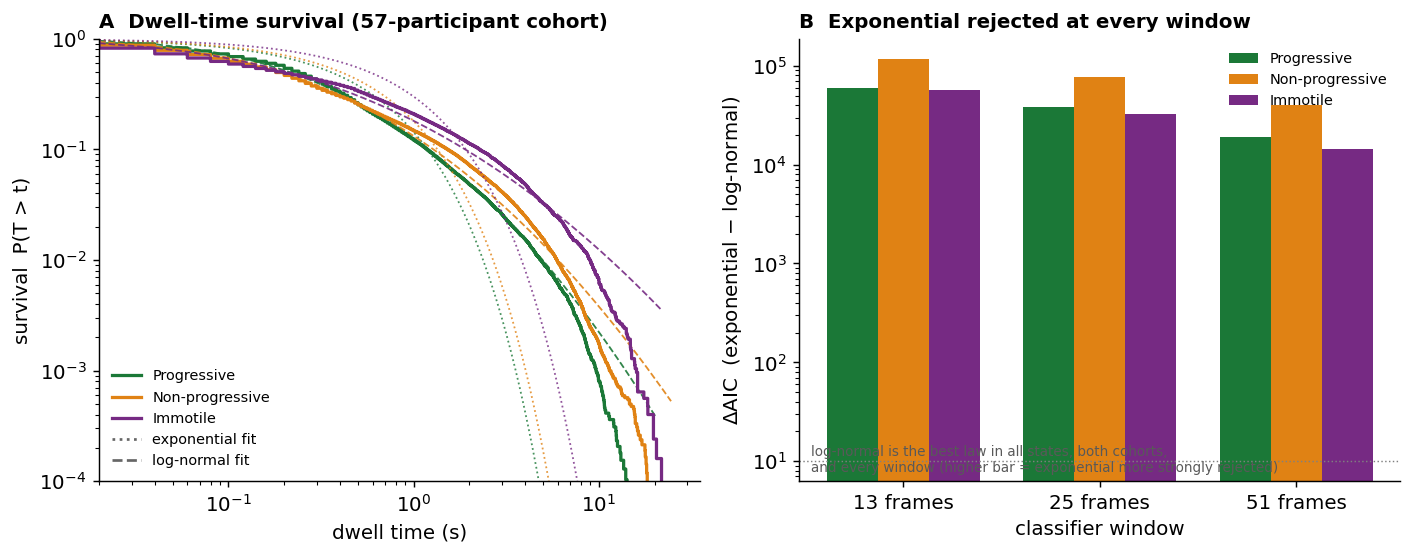
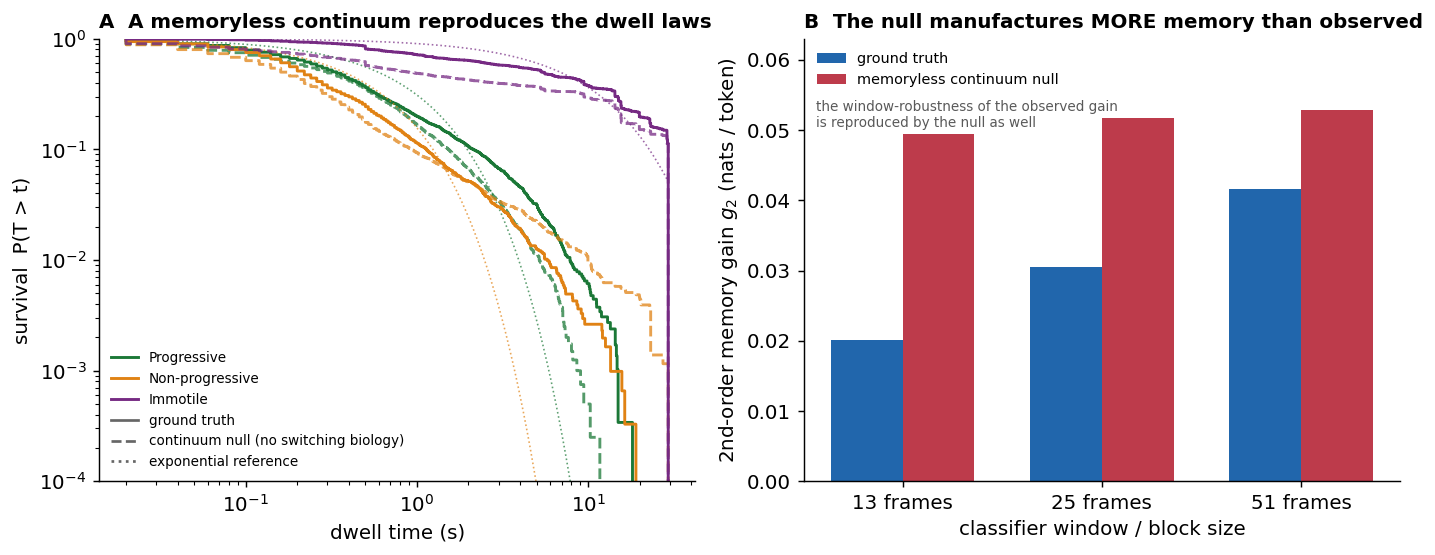
T1.6 figures regenerated for the pivoted paper
- Fig 1: GT dwell survival with continuum-null overlay (null reproduces the
  heavy tails); g2 bar chart with null > GT at every window.
- Fig 2: survivor forest plot (GT, flicker-merged 34/38%, continuum null,
  GT-minus-null) + 16-config classifier sweep showing GT invariance vs
  design-dependent null artefact (hysteresis latch effect annotated).
- Captions updated; placeholder flags removed.

diff --git a/experiments/make_paper_figures.py b/experiments/make_paper_figures.py
@@ -1,13 +1,13 @@
-"""Assemble the paper figures for the non-Markovian sperm-motility study.
+"""Assemble the paper figures for the pipeline-artefact / refractory-survivor study.
 
-Figure 1  dwell-time law is log-normal (not exponential)      -> fig1_dwell_law.png
-Figure 2  decomposing the memory: single-cell vs mover-stayer -> fig2_decomposition.png
-Figure 3  heterogeneity is a reliable trait but not clinically -> fig3_heterogeneity.png
+Figure 1  a memoryless continuum manufactures the phenomenology -> fig1_dwell_law.png
+Figure 2  the survivor: refractory switching vs every control   -> fig2_decomposition.png
+Figure 3  heterogeneity is a reliable trait but not clinically  -> fig3_heterogeneity.png
           incremental over CASA composition
 
-Figure 1 recomputes a modest dwell-time sample; Figures 2-3 are built from the
-summary JSONs already on disk (mover_stayer_eb/null, memory_decomposition,
-per_cell_kinetics, stayer_dfi).
+Figure 1 recomputes dwell samples from outputs/tracks_gt and
+outputs/tracks_continuum_null; Figures 2-3 are built from the summary JSONs
+(refractory_survivor, threshold_hysteresis, per_cell_kinetics, stayer_dfi).
 
 Usage: python -m experiments.make_paper_figures
 """
@@ -27,7 +27,9 @@ ROOT = Path(__file__).resolve().parent.parent
 sys.path.insert(0, str(ROOT))
 from markov_analysis import STATES  # noqa: E402
 from experiments.dwell_physics import dwell_episodes, EXTRA  # noqa: E402
+from experiments.gt_reanchor import GT_DIR  # noqa: E402
 
+NULL_DIR = ROOT / "outputs" / "tracks_continuum_null"
 MK = ROOT / "outputs" / "markov"
 FIG = ROOT / "paper" / "figures"
 FIG.mkdir(parents=True, exist_ok=True)
@@ -42,51 +44,50 @@ def load(name):
 
 # ---------------------------------------------------------------- Figure 1
 def figure1():
-    dwell = dwell_episodes(EXTRA, max_tracks=500, seed=0)
-    rob = load("dwell_physics_robust")["window_invariance"]
+    dwell_gt = dwell_episodes(GT_DIR, max_tracks=0, seed=0)
+    dwell_nl = dwell_episodes(NULL_DIR, max_tracks=0, seed=0)
+    g2_gt = load("gt_reanchor")["gt"]["block_g2"]
+    g2_nl = load("continuum_null")["null"]["block_g2"]
 
     fig, ax = plt.subplots(1, 2, figsize=(11, 4.4))
 
-    # (A) empirical survival on log-log + fitted exponential vs log-normal
+    # (A) dwell survival: GT (solid) vs memoryless continuum null (dashed)
     for i, s in enumerate(STATES):
-        d = np.sort(dwell[i])
-        d = d[d > 0]
-        surv = 1.0 - np.arange(1, len(d) + 1) / len(d)
-        ax[0].step(d, surv, where="post", color=COL[s], lw=1.8, label=s)
-        # fitted exponential (Markov/memoryless) -- dashed
-        mu = d.mean()
-        ax[0].plot(d, np.exp(-d / mu), color=COL[s], ls=":", lw=1.0, alpha=0.8)
-        # fitted log-normal -- thin solid
-        sh, loc, sc = stats.lognorm.fit(d, floc=0)
-        ax[0].plot(d, 1 - stats.lognorm.cdf(d, sh, loc, sc),
-                   color=COL[s], ls="--", lw=1.0, alpha=0.9)
+        for dwell, ls, alpha in ((dwell_gt, "-", 1.0), (dwell_nl, "--", 0.75)):
+            d = np.sort(dwell[i]); d = d[d > 0]
+            surv = 1.0 - np.arange(1, len(d) + 1) / len(d)
+            ax[0].step(d, surv, where="post", color=COL[s], lw=1.6,
+                       ls=ls, alpha=alpha, label=s if ls == "-" else None)
+        # exponential (memoryless-switching) reference on GT
+        d = np.sort(dwell_gt[i]); d = d[d > 0]
+        ax[0].plot(d, np.exp(-d / d.mean()), color=COL[s], ls=":", lw=0.9, alpha=0.7)
     ax[0].set_xscale("log"); ax[0].set_yscale("log")
-    ax[0].set_xlim(d.min(), None); ax[0].set_ylim(1e-4, 1)
+    ax[0].set_ylim(1e-4, 1)
     ax[0].set_xlabel("dwell time (s)"); ax[0].set_ylabel("survival  P(T > t)")
-    ax[0].set_title("A  Dwell-time survival (57-participant cohort)", loc="left",
-                    fontsize=11, weight="bold")
-    ax[0].plot([], [], color="0.4", ls=":", label="exponential fit")
-    ax[0].plot([], [], color="0.4", ls="--", label="log-normal fit")
-    ax[0].legend(fontsize=8, frameon=False, loc="lower left")
+    ax[0].set_title("A  A memoryless continuum reproduces the dwell laws",
+                    loc="left", fontsize=11, weight="bold")
+    ax[0].plot([], [], color="0.4", ls="-", label="ground truth")
+    ax[0].plot([], [], color="0.4", ls="--", label="continuum null (no switching biology)")
+    ax[0].plot([], [], color="0.4", ls=":", label="exponential reference")
+    ax[0].legend(fontsize=7.5, frameon=False, loc="lower left")
 
-    # (B) exponential is rejected by a huge margin at every window size
+    # (B) second-order memory gain: null >= observed at every window
     windows = ["13", "25", "51"]
-    x = np.arange(len(windows))
-    w = 0.26
-    for j, s in enumerate(STATES):
-        vals = [rob[wd][s]["exp_dAIC"] for wd in windows]
-        ax[1].bar(x + (j - 1) * w, vals, w, color=COL[s], label=s)
-    ax[1].set_yscale("log")
+    x = np.arange(len(windows)); w = 0.36
+    ax[1].bar(x - w / 2, [g2_gt[wd]["g2"] for wd in windows], w,
+              color="#2166ac", label="ground truth")
+    ax[1].bar(x + w / 2, [g2_nl[wd]["g2"] for wd in windows], w,
+              color="#b2182b", alpha=0.85, label="memoryless continuum null")
     ax[1].set_xticks(x); ax[1].set_xticklabels([f"{wd} frames" for wd in windows])
-    ax[1].set_xlabel("classifier window")
-    ax[1].set_ylabel(r"$\Delta$AIC  (exponential $-$ log-normal)")
-    ax[1].set_title("B  Exponential rejected at every window", loc="left",
-                    fontsize=11, weight="bold")
-    ax[1].axhline(10, color="0.5", ls=":", lw=0.8)
-    ax[1].legend(fontsize=8, frameon=False)
-    ax[1].text(0.02, 0.02, "log-normal is the best law in all states, both cohorts,\n"
-               "and every window (higher bar = exponential more strongly rejected)",
-               transform=ax[1].transAxes, fontsize=7.5, color="0.35")
+    ax[1].set_xlabel("classifier window / block size")
+    ax[1].set_ylabel(r"2nd-order memory gain $g_2$ (nats / token)")
+    ax[1].set_title("B  The null manufactures MORE memory than observed",
+                    loc="left", fontsize=11, weight="bold")
+    ax[1].set_ylim(0, 0.063)
+    ax[1].legend(fontsize=8, frameon=False, loc="upper left")
+    ax[1].text(0.02, 0.80, "the window-robustness of the observed gain\n"
+               "is reproduced by the null as well", transform=ax[1].transAxes,
+               fontsize=7.5, color="0.35")
 
     fig.tight_layout()
     fig.savefig(FIG / "fig1_dwell_law.png", bbox_inches="tight")
@@ -96,63 +97,75 @@ def figure1():
 
 # ---------------------------------------------------------------- Figure 2
 def figure2():
-    eb = load("mover_stayer_eb")
-    dec = load("memory_decomposition")
-    cohorts = ["orig20", "extra57"]
-    labels = {"orig20": "VISEM-Tracking (20)", "extra57": "independent (57)"}
+    rs = load("refractory_survivor")
+    th = load("threshold_hysteresis")
 
-    fig, ax = plt.subplots(1, 3, figsize=(14, 4.4))
+    fig, ax = plt.subplots(1, 2, figsize=(12.5, 4.6),
+                           gridspec_kw={"width_ratios": [1, 1.6]})
 
-    # (A) held-out 2nd-over-1st gain: real vs the three nulls
-    keys = ["real", "eb_fair", "het_overfit", "hom"]
-    names = ["observed", "EB-fair\nheterogeneity", "over-fit\nheterogeneity",
-             "homogeneous\nmemoryless"]
-    cols = ["#2166ac", "#67a9cf", "#b2abd2", "#bbbbbb"]
-    x = np.arange(len(keys)); w = 0.38
-    for c, off in zip(cohorts, (-w / 2, w / 2)):
-        g = eb[c]["g2"]
-        ax[0].bar(x + off, [g[k] for k in keys], w, label=labels[c],
-                  color=[cols[i] for i in range(len(keys))],
-                  edgecolor="k" if c == "extra57" else "none", linewidth=0.6)
-    ax[0].axhline(0, color="k", lw=0.6)
-    ax[0].set_xticks(x); ax[0].set_xticklabels(names, fontsize=8.5)
-    ax[0].set_ylabel("2nd-order gain (log-lik / token)")
-    ax[0].set_title("A  Only real data shows full memory", loc="left",
+    # (A) forest plot: the survivor vs its controls
+    rows = [
+        ("ground truth", rs["gt"]["delta_rho"], rs["gt"]["ci95"], "#2166ac"),
+        ("flicker-merged (34 % of episodes)", rs["gt_flicker_merged_25f"]["delta_rho"],
+         rs["gt_flicker_merged_25f"]["ci95"], "#2166ac"),
+        ("flicker-merged (38 % of episodes)", rs["gt_flicker_merged_50f"]["delta_rho"],
+         rs["gt_flicker_merged_50f"]["ci95"], "#2166ac"),
+        ("memoryless continuum null", rs["continuum_null"]["delta_rho"],
+         rs["continuum_null"]["ci95"], "#b2182b"),
+    ]
+    ys = np.arange(len(rows))[::-1]
+    for y, (name, pt, ci, col) in zip(ys, rows):
+        ax[0].plot(ci, [y, y], color=col, lw=2.2, solid_capstyle="butt")
+        ax[0].plot(pt, y, "o", color=col, ms=7)
+        ax[0].text(-0.005, y + 0.22, name, ha="right", fontsize=8.5, color="0.2")
+    ax[0].axvline(0, color="k", lw=0.7, ls=":")
+    ax[0].set_yticks([])
+    ax[0].set_xlim(-0.38, 0.06)
+    ax[0].set_xlabel(r"refractoriness  $\Delta\rho$  (video-cluster 95 % CI)")
+    ax[0].set_title("A  The survivor and its controls", loc="left",
                     fontsize=11, weight="bold")
-    ax[0].text(0.02, 0.95, "solid edge = 57-cohort", transform=ax[0].transAxes,
-               fontsize=7.5, color="0.35", va="top")
+    d = rs["gt_minus_null"]
+    ax[0].text(0.02, 0.03, f"GT − null = {d['point']:+.2f} "
+               f"[{d['ci95'][0]:+.2f}, {d['ci95'][1]:+.2f}]",
+               transform=ax[0].transAxes, fontsize=8, color="0.35")
 
-    # (B) fair split of the memory into two sources
-    for k, c in enumerate(cohorts):
-        agg = eb[c]["aggregation_share_eb"]
-        gen = eb[c]["genuine_memory_share_eb"]
-        ax[1].bar(k, gen * 100, color="#2166ac", label="single-cell memory" if k == 0 else None)
-        ax[1].bar(k, agg * 100, bottom=gen * 100, color="#67a9cf",
-                  label="mover-stayer heterogeneity" if k == 0 else None)
-        ax[1].text(k, gen * 50, f"{gen:.0%}", ha="center", color="w", fontsize=10, weight="bold")
-        ax[1].text(k, gen * 100 + agg * 50, f"{agg:.0%}", ha="center", color="w",
-                   fontsize=10, weight="bold")
-    ax[1].set_xticks(range(len(cohorts)))
-    ax[1].set_xticklabels([labels[c] for c in cohorts], fontsize=9)
-    ax[1].set_ylabel("share of the non-Markovian signal (%)")
-    ax[1].set_ylim(0, 100)
-    ax[1].set_title("B  Two comparable sources of memory", loc="left",
+    # (B) classifier sweep: GT invariant, null artefact swings with design
+    cfgs = []
+    for k, v in th["threshold_sweep"].items():
+        cfgs.append((k, v))
+    for k, v in th["window_sweep"].items():
+        cfgs.append((k, v))
+    for k, v in th["hysteresis"].items():
+        cfgs.append((k.replace("margin_", "hyst "), v))
+    x = np.arange(len(cfgs))
+    for i, (name, v) in enumerate(cfgs):
+        lo, hi = v["gt"]["ci95"]
+        ax[1].plot([i, i], [lo, hi], color="#2166ac", lw=1.8, alpha=0.9)
+        ax[1].plot(i, v["gt"]["delta_rho"], "o", color="#2166ac", ms=5,
+                   label="ground truth" if i == 0 else None)
+        if v.get("null_ci95"):
+            nlo, nhi = v["null_ci95"]
+            ax[1].plot([i + 0.22, i + 0.22], [nlo, nhi], color="#b2182b",
+                       lw=1.4, alpha=0.7)
+        ax[1].plot(i + 0.22, v["null_delta_rho"], "s", mfc="none",
+                   mec="#b2182b", ms=5,
+                   label="continuum null" if i == 0 else None)
+    ax[1].axvline(10.6, color="0.8", lw=0.8)
+    ax[1].axvline(12.6, color="0.8", lw=0.8)
+    ax[1].text(5.0, 0.06, "threshold placement (11)", ha="center", fontsize=8, color="0.35")
+    ax[1].text(11.6, 0.06, "window", ha="center", fontsize=8, color="0.35")
+    ax[1].text(14.1, 0.06, "hysteresis", ha="center", fontsize=8, color="0.35")
+    ax[1].axhline(0, color="k", lw=0.7, ls=":")
+    ax[1].set_xticks(x)
+    ax[1].set_xticklabels([n for n, _ in cfgs], rotation=60, ha="right", fontsize=7)
+    ax[1].set_ylabel(r"$\Delta\rho$")
+    ax[1].set_title("B  GT invariant across 16 classifier designs; "
+                    "the null's artefact is design-dependent", loc="left",
                     fontsize=11, weight="bold")
-    ax[1].legend(fontsize=8, frameon=False, loc="upper center")
-
-    # (C) single cells near-memoryless (CV~1); population dispersed (CV~2)
-    x = np.arange(len(STATES)); w = 0.38
-    c = "extra57"
-    pooled = [dec[c]["pooled_cv"][s] for s in STATES]
-    within = [dec[c]["within_track_cv"][s]["median_cv"] for s in STATES]
-    ax[2].bar(x - w / 2, within, w, color="#2166ac", label="within single cell (median)")
-    ax[2].bar(x + w / 2, pooled, w, color="#67a9cf", label="pooled population")
-    ax[2].axhline(1.0, color="k", ls=":", lw=1, label="memoryless (CV=1)")
-    ax[2].set_xticks(x); ax[2].set_xticklabels([s[:4] for s in STATES])
-    ax[2].set_ylabel("dwell-time CV")
-    ax[2].set_title("C  Cells ~memoryless, population dispersed", loc="left",
-                    fontsize=11, weight="bold")
-    ax[2].legend(fontsize=8, frameon=False)
+    ax[1].legend(fontsize=8, frameon=False, loc="lower left")
+    ax[1].text(0.99, 0.02, "hysteresis classifiers are latches: they manufacture\n"
+               "refractoriness on memoryless input", transform=ax[1].transAxes,
+               fontsize=7.5, color="0.35", ha="right")
 
     fig.tight_layout()
     fig.savefig(FIG / "fig2_decomposition.png", bbox_inches="tight")

diff --git a/paper/manuscript.md b/paper/manuscript.md
@@ -201,13 +201,13 @@ controlling for static CASA composition and for age/BMI/abstinence
 
 ![Figure 1](figures/fig1_dwell_law.png)
 
-**Figure 1. What a standard analysis concludes.** Empirical survival functions of state
-dwell times on the 1,138 hand-annotated trajectories depart sharply from the exponential
-(memoryless/Markov) law; a second-order Markov model beats a first-order one on held-out
-data; a hierarchical decomposition attributes most of the gain to within-cell memory.
-Sections 3.2–3.3 show that all of this is reproduced by a memoryless continuum passed
-through the identical classifier. *(Figure to be regenerated with the continuum-null
-overlay.)*
+**Figure 1. A memoryless continuum manufactures the phenomenology.** **(A)** Empirical
+survival functions of state dwell times on the 1,138 hand-annotated trajectories (solid)
+depart sharply from the exponential/Markov reference (dotted) in every state — and the
+matched memoryless continuum null, which contains no switching biology at all, reproduces
+the same heavy-tailed laws (dashed). **(B)** The second-order memory gain g₂: the null
+(red) exceeds the observed value (blue) at every classifier window, and reproduces its
+window-robustness.
 
 Applying the field's standard analyses to the ground-truth trajectories reproduces every
 non-Markovian signature the tracked-behaviour literature would predict. Dwell times reject
@@ -317,12 +317,15 @@ contrast), and no state's dwell-law *form* should be read as biology.
 
 ![Figure 2](figures/fig2_decomposition.png)
 
-**Figure 2. The one statistic the null cannot make.** Serial correlation of successive
-state-controlled residual log-dwells within single cells: ground truth Δρ = −0.228
-(video-cluster 95 % CI [−0.296, −0.182]) versus −0.060 [−0.142, +0.008] for the matched
-memoryless continuum; the difference excludes zero, and aggressive flicker-merging
-strengthens the effect. *(Figure to be regenerated: current panel shows the superseded
-EB decomposition.)*
+**Figure 2. The one statistic the null cannot make.** **(A)** Serial correlation of
+successive state-controlled residual log-dwells within single cells (video-cluster 95 %
+CIs): ground truth Δρ = −0.228 [−0.296, −0.182]; merging 34 % or 38 % of episodes as
+suspected classifier flicker strengthens the effect; the memoryless continuum yields
+−0.060 [−0.142, +0.008]; the GT-minus-null difference excludes zero. **(B)** Sixteen
+classifier designs: the ground-truth effect (blue) is invariant across threshold
+placement, classifier window, and hysteresis deadbands, while the null's artefact (red)
+swings from ≈ 0 (51-frame window) to ≈ −0.2 (hysteresis — a latch, which manufactures
+refractoriness on memoryless input).
 
 One statistic resists the continuum null, and it then survives every additional control we
 could construct (`refractory_survivor.py`).
